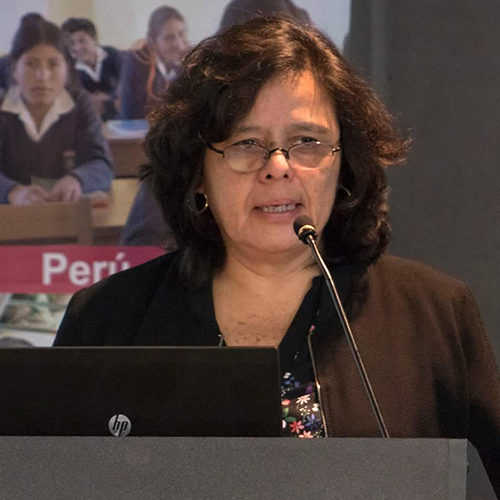
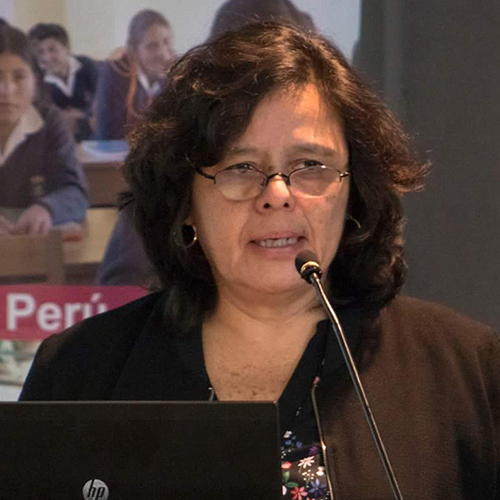
backstage update

diff --git a/templates/cehd/alumni/rising/2018/barry.html b/templates/cehd/alumni/rising/2018/barry.html
@@ -11,7 +11,20 @@
           <p><img class="circular" src="/assets/images/alumni/rising/2018/Barry.jpg" alt="Korina Barry" /></p>
           </div>
           <div class="span-8">
-            <p><strong>Korina Barry</strong> overcame an unstable home life to become a first in her family to graduate college. Today, she brings those experiences to serve children and families. Korina is an Anishinaabe from the Leech Lake band who grew up in south Minneapolis, and earned a bachelor’s and master of social work from the U of M. Today, she is the director of outreach the U’s Center for Advanced Studies in Child Welfare (or “cashew”). Korina works on public policy, manages communications, and sustains relationships with various stakeholders in the child welfare field. Korina has a deep commitment to give back to the Native community. She is a cofounder of KWESTRONG Indigenous Women’s Wellness, a grassroots movement building empowerment through health activities.</p>
+            <p><strong>Korina Barry</strong> has spent the better half of her life advocating for
+children and families. She started her career as a youth worker
+supporting youth in foster care. This work encouraged her to return
+to school at the U of M where she earned a master of social work
+and began her direct practice career in child welfare. Today, she is
+the director of outreach at the U’s Center for Advanced Studies in
+Child Welfare (CASCW “cashew”). Korina works on public policy,
+develops training, manages communications, and sustains
+relationships with various stakeholders in the child welfare field
+across Minnesota. Korina has a deep commitment to give back to
+the Native community. She is a cofounder of KWESTRONG
+Indigenous Women’s Wellness, a grassroots movement building
+empowerment through health activities. Korina is Anishinaabe from
+Gaa-zaagaskwaajimekaag (Leech Lake Band of Ojibwe).</p>
           </div>
         </div>
       </div>
@@ -38,32 +51,33 @@
         <span class="divider height-90 one-half"></span>
         <div class="half">
           <h3>Please list any professional accomplishments you wish to mention.</h3>
-          <ul>
-            <li>Director of Outreach, Center for Advanced Studies in Child Welfare, School of Social Work, CEHD, 2015-Present.</li>
-            <li>Community Faculty, School of Social Work, CEHD, 2017- Present.</li>
-            <li>Roy Wilkins Community Fellow, Humphrey School of Public Affairs, Summer 2017.</li>
-            <li>Senior Social Worker, Indian Child Welfare, Hennepin County, 2010-2015.</li>
-            <li>Youth Worker, Healthy Transitions – Homelessness Prevention, Division of Indian Work, 2009-2011.</li>
-            <li>Research Assistant, Waybinigay Tobacco Cessation Program, Indigenous Peoples Task Force, 2008-2009.</li>
-          </ul>
+          I ran for public office (state representative) in 2018. I was honored and humbled to have the support of my amazing campaign team and community members. I look forward supporting ongoing efforts to break down the barriers that prevent communities or color and indigenous communities from participating in the political process and that keep POCI from running for and holding office.
+
 
           <h3>Please list any past or current volunteer activities.</h3>
+          <p>
+            <strong>Current</strong>
+          </p>
           <ul>
-            <li>Family Court Enhancement Project (FCEP) Subcommittee 3, Member, 2017-Present.</li>
+            <li>Family Court Enhancement Project (FCEP) Subcommittee 4, Member, 2017-Present.</li>
             <li>State Guardian Ad Litem Board, Vice Chair, 2016-Present.</li>
-            <li>Division of Indian Work, Board of Directors, 2015- Present.</li>
+            <li>Division of Indian Work, Board Member, 2015- Present </li>
+
+            <p>
+              <strong>Previous</strong>
+            </p>
             <li>KWESTRONG Indigenous Women’s Wellness, Co-Founder and Organizer, 2012-2017.</li>
             <li>Social Work Equity Workgroup, Children’s Hospital, Member, 2016-2017.</li>
             <li>American Indian Community Liaison Advisory Board, Children’s Hospital, Member, 2016-2017.</li>
-            <li>Women of Nations, Board of Directors, Chair, 2014-2017.</li>
+            <li>Women of Nations, Board Member, 2014-2017.</li>
             <li>Boys and Girls Club, Youth Mentor, 2015-2016.</li>
-            <li>Twin Cities Alumnae Association, Sigma Lambda Gamma, Co-Founder and Member, 2010-2017.</li>
+            <li>Twin Cities Alumnae Association of Sigma Lambda Gamma, Co-Founder and Member, 2010-2017.</li>
           </ul>
 
           <h3>Please list any awards or honors from your collegiate, professional, or volunteer experiences.</h3>
           <ul>
             <li>
-              Honoring American Indian Women Award, American Indian Student Cultural Center, University of Minnesota.
+              2015 Honoring American Indian Women Award, American Indian Student Cultural Center, University of Minnesota.
             </li>
             </ul>
 
@@ -87,7 +101,7 @@
           <p>I think strong connections to community are imperative, whether that be your personal community or professional community. Working in the field of social work I greatly understand the importance of self-care and strong support networks. I believe both of these are essential for emerging professionals of any field.</p>
 
           <h3>What are your hobbies?</h3>
-            <p>Reading, writing, designing the next par3 of my professional journey which I hope will happen within the next two years.</p>
+            <p>I love podcasts. I enjoy most outdoors activities, including hiking, cycling, running, canoeing, and archery!</p>
           <h3>How do others describe you?</h3>
             <p>Compassionate, dedicated, resilient.</p>
           <h3>How do you describe yourself?</h3>

diff --git a/templates/edpsych/current/psych-foundations/funding.html b/templates/edpsych/current/psych-foundations/funding.html
@@ -15,6 +15,8 @@
               <p>f you are a graduate assistant with an appointment of at least 25 percent (10 hours per week), you will receive a tuition remission (based on resident tuition rates) equal to twice the percentage of your appointment in the term of the appointment only. As a graduate assistant you may qualify for enrollment in the <a href="http://www.shb.umn.edu/twincities/graduate-assistants/gahp/graduate-assistant-health-plan.htm">Graduate Assistant Health Insurance Plan</a>. Plan design and premiums are subject to change from year to year.</p>
               <p>While an assistantship may cover a percentage of Graduate School resident tuition and provide a waiver of the non-resident tuition for appointments 25% or more, it will not cover student fees. All students enrolled in six or more credits at the University of Minnesota are responsible for paying student services fees (<a href="http://www.cehd.umn.edu/graduate/tuition.html">Tuition, Aid and Funding</a>), <a href="http://onestop.umn.edu/finances/costs_and_tuition/fees/college_and_program_fees.html">college technology fee</a> and any course or laboratory fees as required by specific courses. Please take these costs into account when projecting your personal academic budget.</p>
               <p>Non-native English speakers:University policy requires that nonnative English speaking Teaching Assistants (TAs) must demonstrate proficiency in spoken English appropriate to the demands of their teaching assistantship.  To meet the policy requirements, you must have an English Language Proficiency (ELP) Rating. This proficiency will be assessed by the ibTOEFL (speaking subscore), the Spoken English Test for Teaching Assistants (SETTA) or an English Language Proficiency rating earned through coursework with the <a href="http://cei.umn.edu/">Center for Teaching and Learning Services.</a></p>
+              <h3>Travel funding</h3>
+                  <li><a href="{{ config.base_url }}/current/travel-funding/">Department student travel funding</a></li>
               <p><a href="/">Learn more about PsyF/QME assistantships</a></p>
             <h3>Graduate assistantships in other departments</h3>
               <p>We also encourage you to seek out research or teaching assistant positions in other departments in the college or at the University level. The College of Education and Human Development Web site is a good source of information about departments and contacts in the College. In addition to information about the six academic departments in the College, the Web site lists information about more than 20 nationally designated research and service centers housed within the College (for example, some PsyF/QME students have held appointments in the Center for Applied Research and Educational Improvement—CAREI). Various programs in epidemiology and the School of Public Health at the University also hire a number of research assistants, including some students from our department. Those of you who live outside the Twin Cities area should consider writing to these places (include a resume). The Graduate Assistant Office Web site posts assistantships for University departments and should be checked frequently. The Student Employment Office also lists many opportunities for on-campus employment. Students from outside the Twin Cities area who will be seeking assistantships are encouraged to arrive as early as possible.</p>

diff --git a/templates/cehd/giving/gifts.html b/templates/cehd/giving/gifts.html
@@ -24,32 +24,32 @@
     <div class="span-12">
         <h2 class="text-center">Giving matters</h2>
         <div class="third">
-            <h3>Fostering leadership</h3>
+            <h3>Research on the “hustle” </h3>
 
-            <img src="/assets/images/giving/fostering.jpg" alt="Bergauer Fellowship" />
+            <img src="/assets/images/giving/matters/Adjei.jpg" alt="Bergauer Fellowship" />
 
-            <p>The Bergauer Fellowship helps OLPD graduate students engage with their communities.
+            <p>A Global Graduate Grant powered Millicent Adjei’s research on low-income students in Ghana.
                 <br />
                 <small><a href=
-                "http://connect.cehd.umn.edu/giving-matters-fostering-educational-leadership/">Continue
+                "http://connect.cehd.umn.edu/giving-matters-global-graduate-grants/">Continue
                 reading</a></small></p>
         </div>
         <div class="third">
-            <h3>Support for women scholars</h3>
-            <img src="/assets/images/giving/scholar.jpg" alt="Graduate student I-Ling Yeh and assistant professor LeAnne Johnson" />
-            <p>With the Women&rsquo;s Philanthropic Leadership Circle, small gifts make a big difference.
+            <h3>Time on task</h3>
+            <img src="/assets/images/giving/matters/Simonson.jpg" alt="Greg Simonson" />
+            <p>The Cooke Fellowship funds critical experiences for school psychology students.
                 <br />
-                <small><a href="http://connect.cehd.umn.edu/wplc/">Continue reading</a></small></p>
+                <small><a href="http://connect.cehd.umn.edu/supporting-tomorrows-professionals//">Continue reading</a></small></p>
         </div>
         <div class="third">
-            <h3>Inspiring math learners</h3>
+            <h3>China Champions</h3>
 
-            <img src="/assets/images/giving/math.jpg" alt="Lesa Clarkson" />
+            <img src="/assets/images/giving/matters/wang.jpg" alt="Lucy Wang" />
 
-            <p>A Mooty Foundation gift helps Lesa Clarkson foster math skills in North Minneapolis.
+            <p>A new gift to the School of Kinesiology helps Chinese athletes advance.
                 <br />
                 <small><a href=
-                "http://connect.cehd.umn.edu/giving-matters-inspiring-math-learners/">Continue
+                "http://http://connect.cehd.umn.edu/giving-matters-china-champions/">Continue
                 reading</a></small></p>
         </div>
     </div>

diff --git a/templates/cehd/graduate/wellbeing.html b/templates/cehd/graduate/wellbeing.html
@@ -31,13 +31,13 @@
       <li>Schedule a consultation with a <a href="https://www.lib.umn.edu/services/prc">Peer Research Consultant</a> through the UMN Libraries.</li>
       <li>Visit the <a href="http://writing.umn.edu/">Center for Writing</a> to get an expert writing consultation for your academic work.</li>
       <li>Talk with someone you trust. Reach out to your professor or adviser. </li>
-      <li>Talk with other faculty members in CEHD or in your academic department, or contact your Graduate Program Coordinator [link to GPC contact page]. They can advise you on add/drop options, taking a leave of absence, or registering for GRAD 999, a zero-credit, zero-tuition registration option for maintaining continuous enrollment [link to relevant policy pages].</li>
-      <li>Contact Michael DallaValle, CEHD Coordinator of Graduate Education or Brianne Keeney, CEHD Director of Graduate Education Initiatives. </li>
+      <li>Talk with other faculty members in CEHD or in your academic department, or <a href="/graduate/contact/">contact your Graduate Program Coordinator</a>. They can advise you on add/drop options, taking a leave of absence, or <a href="/graduate/policy/">registering for GRAD 999</a>, a zero-credit, zero-tuition registration option for maintaining continuous enrollment.</li>
+      <li>Contact Michael DallaValle, CEHD Coordinator of Graduate Education. </li>
     </ul>
     <h2>Challenges in climate</h2>
     <p>Do you suspect that you have experienced an act(s) of bias based on your identity? Is the climate in your classroom or academic department  feeling exclusionary? You have options:</p>
     <ul>
-      <li>Contact Michael DallaValle, CEHD Coordinator of Graduate Education or Brianne Keeney, CEHD Director of Graduate Education Initiatives. We can help you discreetly explore the options available to you or track concerns over time.</li>
+      <li>Contact Michael DallaValle, CEHD Coordinator of Graduate Education. We can help you discreetly explore the options available to you or track concerns over time.</li>
       <li>Reach out to the <a href="http://www.sos.umn.edu/">Student Conflict Resolution Center</a> or the <a href="https://diversity.umn.edu/eoaa/">Equal Opportunity and Affirmative Action Office</a> for a consultation. </li>
       <li>Report a bias incident to the <a href="https://bias-response.umn.edu/">Bias Response Referral Network.</a></li>
     </ul>

diff --git a/templates/edpsych/programs/foundations/funding/index.html b/templates/edpsych/programs/foundations/funding/index.html
@@ -20,6 +20,8 @@
           <p>Learn more about <a href="{{ config.base_url }}/programs/foundations/funding/psyf-assistantships/">PsyF/QME assistantships</a></p>
         </div>
         <div class="half">
+            <h2>Student travel funding</h2>
+                <li><a href="{{ config.base_url }}/current/travel-funding/">Department student travel funding</a></li>
           <h2>Graduate Assistantships in other Departments</h2>
           <p>We also encourage you to seek out research or teaching assistant positions in other departments in the college or at the University level. The College of Education and Human Development Web site is a good source of information about departments and contacts in the College. In addition to information about the six academic departments in the College, the Web site lists information about more than 20 nationally designated research and service centers housed within the College (for example, some PsyF/QME students have held appointments in the Center for Applied Research and Educational Improvement—CAREI). Various programs in epidemiology and the School of Public Health at the University also hire a number of research assistants, including some students from our department. Those of you who live outside the Twin Cities area should consider writing to these places (include a resume). The Graduate Assistant Office Web site posts assistantships for University departments and should be checked frequently. The Student Employment Office also lists many opportunities for on-campus employment. Students from outside the Twin Cities area who will be seeking assistantships are encouraged to arrive as early as possible.</p>
           <p>Please weigh your alternatives if you currently live in the Twin Cities area and hold a position of employment that allows flexibility for school attendance and coursework before giving it up in favor of on-campus employment. With our limited resources and absence of placement services within the department, students should take initiative and be proactive in seeking graduate assistant positions. Your adviser can serve as a reference when you apply for assistantships and may be a good resource for available positions.</p>

diff --git a/templates/cehd/giving/recognition.html b/templates/cehd/giving/recognition.html
@@ -41,7 +41,7 @@
 
             <div class="span-6">
                 <h2>The President's Club</h2>
-                <p><a href="https://give.umn.edu/recognition/pc">The Presidents Club</a> recognizes individuals, families, and organizations whose University-wide cumulative giving totals of $100,000 or more.</p>
+                <p><a href="https://give.umn.edu/recognition/pc">The President's Club</a> recognizes individuals, families, and organizations whose University-wide cumulative giving totals of $100,000 or more.</p>
             </div>
             <div class="span-6">
                 <h2>The Heritage Society</h2>
@@ -78,7 +78,7 @@
                 alumni and friends gave more than $14 million to support the work of the college. These gifts created scholarships and fellowships, provided program support, and enhanced research and community partnerships. Through gifts of all sizes,
                 faculty and students benefited greatly from your generosity.</p>
             <p><em>Thank you for helping us improve lives.</em></p>
-            <p>This roster includes all fiscal year donors to the College of Education and Human Development. The roster also contains all donors who are qualified for membership in the Presidents Club either before or during the fiscal year ending June 30, 2017. Also listed are donors to the Women’s Philanthropic Leadership Circle.</p>
+            <p>This roster includes all fiscal year donors to the College of Education and Human Development. The roster also contains all donors who are qualified for membership in the President's Club either before or during the fiscal year ending June 30, 2017. Also listed are donors to the Women’s Philanthropic Leadership Circle.</p>
         </div>
         <div class="third">
 

diff --git a/templates/cehd/graduate/contact.html b/templates/cehd/graduate/contact.html
@@ -2,34 +2,28 @@
 {% set page_title = "Graduate Contact" %}
 {% block title %}{{ page_title }}{% endblock %}
 {% block main_content %}
-<div class="row"> 
+<div class="row">
   <div class="container">
     <h1>Contact us</h1>
   </div></div>
 <div class="row">
   <div class="container">
-
-        <p>Graduate education at the college level is overseen by:</p>
-              <div class="span-3">
+    <h2 class="h5">Graduate education at the college level is overseen by:</h2>
+      <div class="span-4">
         <p><a href="http://www.cehd.umn.edu/CI/People/profiles/Dillon.html">Deborah Dillon</a><br />
-          Associate Dean for Graduate and Professional Programs<br />
+          Associate Dean for Graduate<br />and Professional Programs<br />
           <a href="mailto:dillon@umn.edu">dillon@umn.edu</a><br  />612-626-8271</p>
       </div>
-                <div class="span-3">
-        <p>Bri Keeney<br />
-          Director of Graduate Education Initiatives<br />
-          <a href="mailto:keen0113@umn.edu">keen0113@umn.edu</a><br  />612-626-9145</p>
-          </div>
-                <div class="span-3">
+      <div class="span-4">
         <p>Michael DallaValle<br />
           Coordinator of Graduate Education<br />
           <a href="mailto:mdallava@umn.edu">mdallava@umn.edu</a><br  />612-625-5883</p>
-          </div>
-                <div class="span-3">
+      </div>
+      <div class="span-4">
         <p>Kristin Van Dorn<br />
-          Graduate Education Recruitment and Communications Manager<br />
+          Graduate Education Recruitment<br />and Communications Manager<br />
           <a href="mailto:vando027@umn.edu">vando027@umn.edu</a><br  />612-625-6324</p>
-  </div>
+      </div>
 </div>
 </div>
     <div class="margin-top-2">

diff --git a/templates/cehd/giving/contact.html b/templates/cehd/giving/contact.html
@@ -18,12 +18,14 @@
             <p class="contact text-center"><strong>Susan Oswald Holter</strong><br/> Chief Development Officer<br/> 612-625-1757
                 <br /><a href="mailto:susan@umn.edu">susan@umn.edu</a></p>
             <p class="contact text-center"><strong>Liaison:</strong>
-                <br /> Kinesiology, Curriculum and Instruction, and Institute of Child Development</p>
+                <br />Institute of Child Development</p>
         </div>
         <div class="span-3">
             <img class="circular" src="/assets/images/giving/Barber.png" alt="Brittany Barber">
             <p class="contact text-center"><strong>Brittany Barber</strong><br/> Associate Development Officer<br/> 612-301-2240
                 <br /><a href="mailto:babarber@umn.edu">babarber@umn.edu</a></p>
+                <p class="contact text-center"><strong>Liaison:</strong>
+                    <br />Kinesiology</p>
         </div>
         <div class="span-3">
             <img class="circular" src="/assets/images/giving/Brown.jpg" alt="Brittany Barber">
@@ -78,9 +80,11 @@
               <br /> School of Social Work, Corporate and foundation relations</p>
       </div>
       <div class="span-3">
-          <img class="circular" src="/assets/images/giving/Utley.jpg" alt="Trygve Throntveit">
+          <img class="circular" src="/assets/images/giving/Utley.jpg" alt="Brian Utley">
           <p class="contact text-center"><strong>Brian Utley</strong><br/> Senior Development Officer<br/> 612-626-3597
               <br /><a href="mailto:butley@umn.edu">butley@umn.edu</a></p>
+              <p class="contact text-center"><strong>Liaison:</strong>
+                  <br />Curriculum and Instruction</p>
 
       </div>
     </div><!-- ./container -->

diff --git a/templates/edpsych/index.html b/templates/edpsych/index.html
@@ -25,12 +25,12 @@
             <div class="large-image-container">
                 <div class="home-image large">
                     <figure>
-                        <a href="{{ config.base_url}}/research/empowering-parents-to-help-close-the-word-gap/" {{ analytics.add_tracking("send", "event", "feature", "click", "homemainfeature") }}">
-                            <img src="{{ config.base_url}}/assets/dist/images/home/LENA-start-homepage.jpg" alt="child swings from tire swing while wearing LENA Start vest">
+                        <a href="http://connect.cehd.umn.edu/learning-about-gaps/" {{ analytics.add_tracking("send", "event", "feature", "click", "homemainfeature") }}">
+                            <img src="{{ config.base_url}}/assets/dist/images/home/what-were-learning-about-gaps-feature.jpg" alt="young students raise their hands in a classroom">
                         </a>
                         <figcaption>
-                            <a href="{{ config.base_url}}/research/empowering-parents-to-help-close-the-word-gap/">
-                                Empowering parents to help close the word gap
+                            <a href="http://connect.cehd.umn.edu/learning-about-gaps/">
+                                What we're learning about gaps
                             </a>
                         </figcaption>
                     </figure>

diff --git a/templates/cehd/giving/critical.html b/templates/cehd/giving/critical.html
@@ -129,7 +129,7 @@ figcaption{
 <h3>Advance educational equity</h3>
 <p>Minnesota’s future depends on the educational success of all its children so that they can meet the challenges of the 21st century.</p>
 
-<p>We are studying the best ways to promote the success of ﬁrst-generation, low-income, and students of color from preschool through college. Our research has identiﬁed best practices to building per- sistence and achievement in STEM ﬁelds across genders and ethnicities. And, we offer new and inno- vative pathways to teaching careers to ensure that our future teaching corps is more diverse and reﬂective of the students they teach.</p>
+<p>We are studying the best ways to promote the success of ﬁrst-generation, low-income, and students of color from preschool through college. Our research has identiﬁed best practices to building per- sistence and achievement in STEM ﬁelds across genders and ethnicities. And, we offer new and innovative pathways to teaching careers to ensure that our future teaching corps is more diverse and reﬂective of the students they teach.</p>
 
 <p>CEHD’s research and outreach in literacy, early childhood education, and teacher preparation uniquely positions us as a leader in the effort to close the opportunity gap.</p>
 

diff --git a/templates/cehd/teaching/index.html b/templates/cehd/teaching/index.html
@@ -19,8 +19,10 @@
         <div class="half">
         <img src="/assets/images/about/050114bush125.jpg" />
         <p>
-          <strong><a href="/assets/docs/teaching/2017-18-MEd-Handbook.pdf">2017 handbook now available</a></strong><br />
-          Our handbook for teacher candidates, cooperating teachers, and University supervisors has been revised for the 2017-2018 academic year.</p>
+          <strong><a href="https://academics.cehd.umn.edu/teaching-handbook">2018 handbook website now available</a>.</strong><br />
+          Our handbook for teacher candidates, cooperating teachers, and University supervisors has been revised for the 2018-2019 academic year.</p>
+          <p>Please use
+          <strong><a href="/assets/docs/teaching/2017-18-MEd-Handbook.pdf">2017 handbook PDF</a></strong> for the 2017-2018 academic year.</p>
         </div>
       </div>
     </div><!-- ./container -->

diff --git a/templates/cehd/commencement/index.html b/templates/cehd/commencement/index.html
@@ -159,7 +159,7 @@
               </li>
               <li>
                 Note that CEHD has professional photographers taking photos during the ceremony for use in CEHD publications and websites.
-                <a href="http://www.gradimages.com/Preregistration">Grad Images</a>will take an individual photo of you on the stage, and you will receive a free proof of this photo in the mail within six days following the ceremony. There is no obligation to purchase.
+                <a href="http://www.gradimages.com/Preregistration">Grad Images</a> will take an individual photo of you on the stage, and you will receive a free proof of this photo in the mail within six days following the ceremony. There is no obligation to purchase.
               </li>
               <li>
                 The ceremony will be available live online for any guests who are unable to attend in person.
